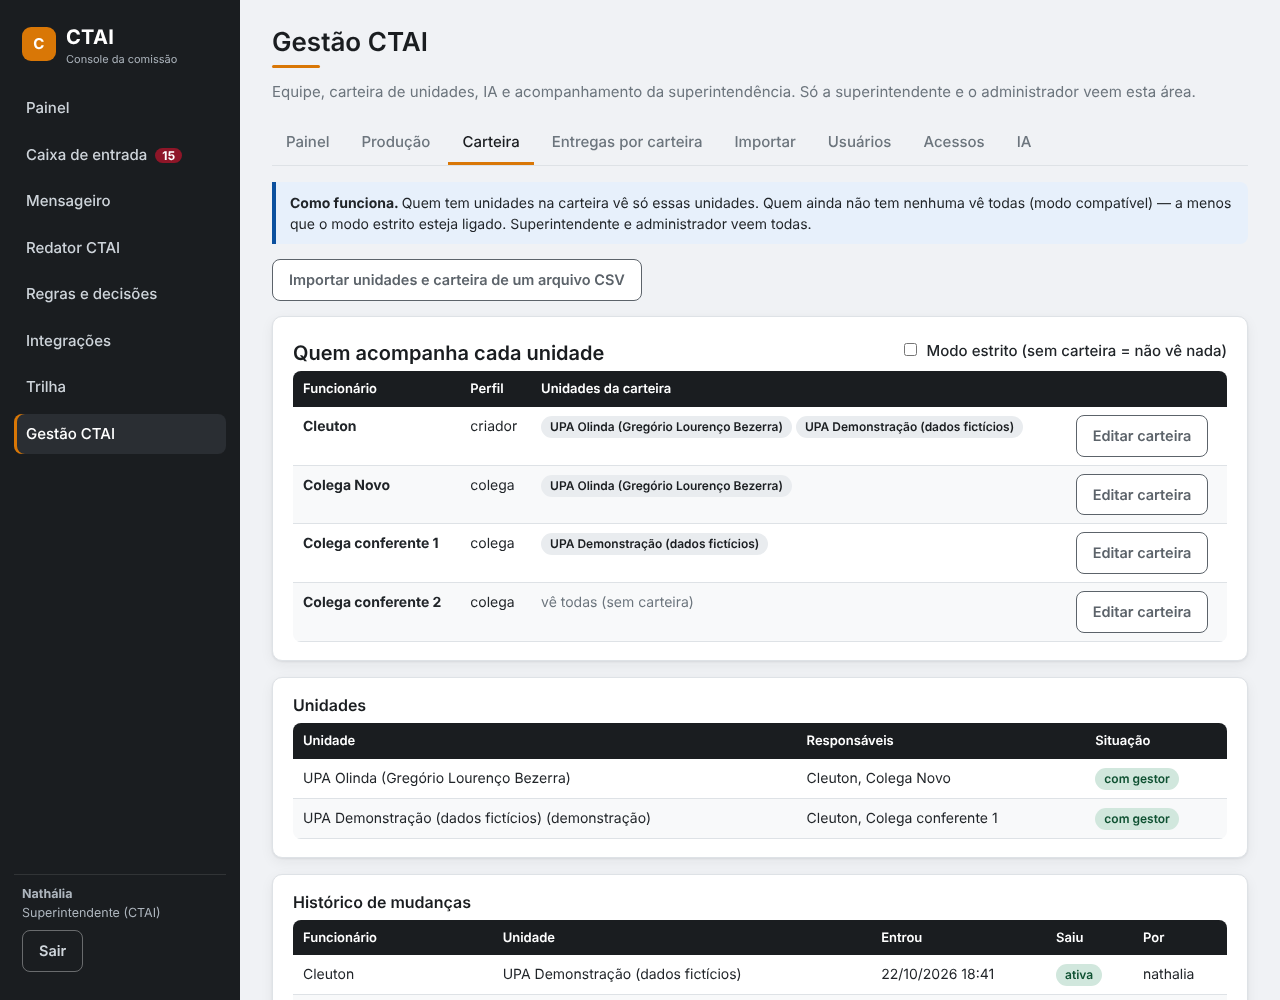
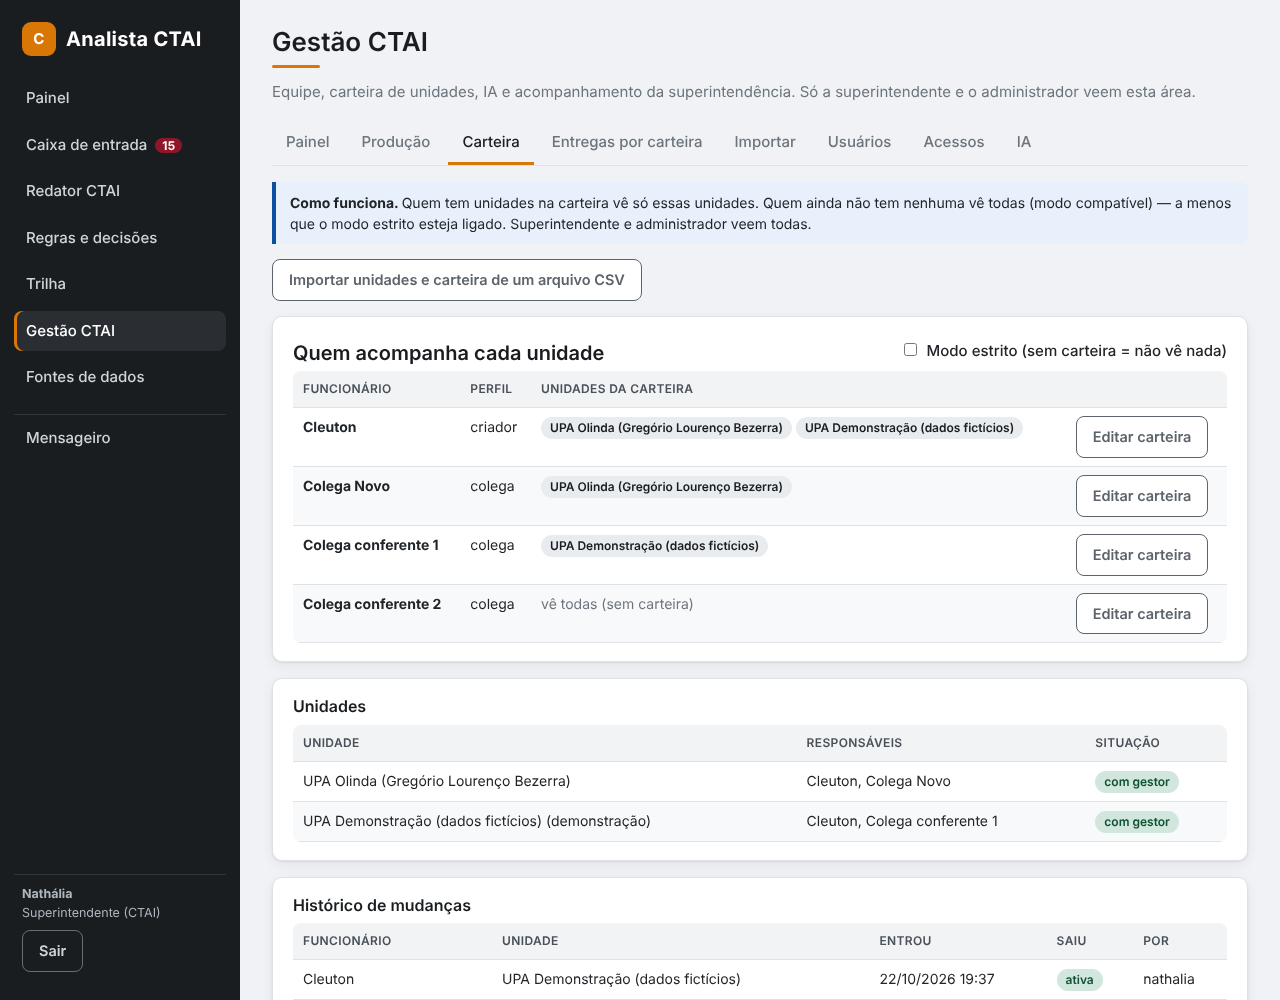
Design mais leve: cartões do Painel recolhidos por padrão, Mensageiro por último, Integrações vira Fontes de dados (só gestão), tabelas claras
Claude-Session: https://claude.ai/code/session_01TePQBrxAiH7ZoxMsBLHw5s

diff --git a/public/js/ctai.js b/public/js/ctai.js
@@ -15,11 +15,13 @@
     const r = await api('GET', '/api/ctai/contratos');
     const pareceres = await api('GET', '/api/ctai/pareceres');
     montar(h('div', { class: 'topo' }, h('div', null, h('h1', null, 'Painel da CTAI'), h('p', null, 'Envios recebidos, divergências abertas e pareceres em andamento.'))),
-      r.contratos.map((c) => h('div', { class: 'cartao' },
-        h('div', { class: 'linha espaco' }, h('h2', { style: 'margin:0' }, c.unidade, ' ', c.demo ? selo('demonstração', 'demo') : null), c.decisoesAbertas ? h('a', { href: '#/regras/' + c.contrato_id }, selo(c.decisoesAbertas + ' dúvida(s) de regra em aberto', 'atencao')) : selo('regras decididas', 'ok')),
-        h('p', { class: 'mudo peq' }, c.oss + ' · ' + (c.numero_cg || '')),
+      r.contratos.map((c) => window.CTAI.recolher('painel:' + c.contrato_id,
+        h('span', null, c.unidade, ' ', c.demo ? selo('demonstração', 'demo') : null),
+        h('span', null, c.competencias.length + ' mês(es) · ' + c.competencias.reduce((n, k) => n + (k.divergenciasAbertas || 0), 0) + ' divergência(s) aberta(s) ', c.decisoesAbertas ? selo(c.decisoesAbertas + ' dúvida(s) de regra', 'atencao') : null),
+        h('div', null,
+          h('p', { class: 'mudo peq', style: 'margin-top:0' }, c.oss + ' · ' + (c.numero_cg || ''), c.decisoesAbertas ? [' · ', h('a', { href: '#/regras/' + c.contrato_id }, 'ver dúvidas de regra')] : null),
         tabela([{ t: 'Mês' }, { t: 'Situação' }, { t: 'Envio' }, { t: 'Recebido em' }, { t: 'Prazos' }, { t: 'Divergências abertas', n: true }, { t: '' }],
-          c.competencias.map((k) => [fmt.comp(k.competencia_id) + (k.mes_implantacao ? ' (implantação)' : ''), selo(k.status, SITU[k.status] || ''), k.versaoEnvio ? h('span', null, 'v' + k.versaoEnvio, k.seiAlertas ? [' ', h('a', { href: '#/c/' + k.cid + '/envios', title: 'Alerta entre o sistema e o SEI' }, selo('SEI: ' + k.seiAlertas + ' alerta(s)', 'atencao'))] : null) : '—', fmt.data(k.recebido_em), k.prazos ? selo(k.prazos.texto, k.prazos.nivel === 'alta' ? 'alta' : (k.prazos.nivel === 'atencao' ? 'atencao' : (k.prazos.nivel === 'ok' ? 'ok' : ''))) : '—', String(k.divergenciasAbertas), h('a', { href: '#/c/' + k.cid }, 'Abrir')])))),
+          c.competencias.map((k) => [fmt.comp(k.competencia_id) + (k.mes_implantacao ? ' (implantação)' : ''), selo(k.status, SITU[k.status] || ''), k.versaoEnvio ? h('span', null, 'v' + k.versaoEnvio, k.seiAlertas ? [' ', h('a', { href: '#/c/' + k.cid + '/envios', title: 'Alerta entre o sistema e o SEI' }, selo('SEI: ' + k.seiAlertas + ' alerta(s)', 'atencao'))] : null) : '—', fmt.data(k.recebido_em), k.prazos ? selo(k.prazos.texto, k.prazos.nivel === 'alta' ? 'alta' : (k.prazos.nivel === 'atencao' ? 'atencao' : (k.prazos.nivel === 'ok' ? 'ok' : ''))) : '—', String(k.divergenciasAbertas), h('a', { href: '#/c/' + k.cid }, 'Abrir')]))))),
       h('div', { class: 'cartao' }, h('div', { class: 'linha espaco' }, h('h2', { style: 'margin:0' }, 'Pareceres'), h('a', { class: 'btn sec', href: '#/pareceres' }, 'Ver todos')),
         tabela([{ t: 'Parecer' }, { t: 'Trimestre' }, { t: 'Criado por' }, { t: 'Situação' }], pareceres.pareceres.slice(0, 5).map((p) => [h('a', { href: '#/p/' + p.parecer_id }, p.titulo), p.trimestre, p.criador_nome, selo(p.status + (p.ultimaVersao ? ' (v' + p.ultimaVersao.numero + ')' : ''), p.status === 'anexado ao SEI' || p.status === 'autorizado' ? 'ok' : 'atencao')]), { vazio: 'Nenhum parecer aberto.' })));
   }
@@ -273,8 +275,8 @@
         aviso('info', h('strong', null, 'Como começar. '), 'Abra uma unidade. Se ela não tiver regra, aplique o modelo do tipo dela (hoje existe o das UPAs) e depois confira contra o contrato e os TAs. As regras de hospitais e UPAE entram quando os contratos forem cadastrados.'),
         ehSup && semUpa ? h('div', { class: 'cartao' }, h('div', { class: 'linha espaco' }, h('div', null, h('strong', null, semUpa + ' UPA(s) sem regra'), h('p', { class: 'mudo peq', style: 'margin:2px 0 0' }, 'Aplica o modelo IGQ (baseado na UPA Olinda) a todas de uma vez. Cada uma fica marcada "modelo a conferir" até alguém conferir com o contrato.')),
           h('button', { id: 'rg-lote', onclick: async () => { if (!(await confirmar('Aplicar o modelo às UPAs', 'O modelo IGQ será aplicado a ' + semUpa + ' UPA(s) sem regra. Elas ficam marcadas "modelo a conferir".', 'Aplicar'))) return; try { const o = await api('POST', '/api/ctai/regras/modelo-lote', { tipo: 'UPA', modelo: 'igq_v1' }); toast(o.aplicadas + ' unidade(s) com o modelo aplicado.'); regras(p); } catch (e) { toast(e.message, true); } } }, 'Aplicar o modelo às UPAs sem regra'))) : null,
-        ehSup ? h('div', { class: 'cartao' }, h('h3', null, 'Importar regras dos contratos'), h('p', { class: 'mudo peq' }, 'Arquivo JSON com as regras lidas dos contratos e TAs (várias unidades de uma vez). Cada unidade é encontrada pelo nome; as que não casarem são listadas. Tudo entra como "a conferir".'),
-          h('div', { class: 'linha' }, arqLote, h('button', { class: 'sec', id: 'rg-importar-lote', onclick: importarLote }, 'Importar'))) : null,
+        ehSup ? window.CTAI.recolher('regras:importar', 'Importar regras dos contratos', 'só para a superintendência', h('div', null, h('p', { class: 'mudo peq', style: 'margin-top:0' }, 'Arquivo JSON com as regras lidas dos contratos e TAs (várias unidades de uma vez). Cada unidade é encontrada pelo nome; as que não casarem são listadas. Tudo entra como "a conferir".'),
+          h('div', { class: 'linha' }, arqLote, h('button', { class: 'sec', id: 'rg-importar-lote', onclick: importarLote }, 'Importar')))) : null,
         h('div', { class: 'cartao' }, tabela([{ t: 'Unidade' }, { t: 'Tipo' }, { t: 'Regra' }, { t: 'Decisões em aberto', n: true }, { t: '' }],
           lista.map((c) => [h('a', { href: '#/regras/' + c.contrato_id }, c.unidade), c.tipo, estadoSelo(c), String(c.decisoesAbertas || 0), h('a', { class: 'btn sec', href: '#/regras/' + c.contrato_id }, c.regra.tem ? 'Abrir' : 'Cadastrar')]), { vazio: 'Nenhuma unidade na sua carteira.' })));
     }
@@ -705,7 +707,7 @@
   async function integracoes() {
     const r = await api('GET', '/api/integracoes');
     const cs = (await api('GET', '/api/ctai/contratos')).contratos;
-    montar(h('div', { class: 'topo' }, h('div', null, h('h1', null, 'Integrações'), h('p', null, 'Rack para ligar o sistema da unidade (MV). Aguardando acesso e dicionário de campos.'))),
+    montar(h('div', { class: 'topo' }, h('div', null, h('h1', null, 'Fontes de dados'), h('p', null, 'De onde o sistema pode buscar informações além da digitação no portal. Hoje só a digitação e o arquivo CSV funcionam; as demais ficam prontas para quando houver acesso.'))),
       aviso('info', h('strong', null, 'Como funciona: '), 'o sistema busca as linhas pela API, confere cada uma (dado pessoal é recusado), e guarda como lote pendente. O gestor da unidade confirma. Só então entram no cálculo. As credenciais ficam no .env do servidor, nunca no banco.'),
       await cartaoGaocg(),
       r.tipos.map((t) => h('div', { class: 'cartao' }, h('div', { class: 'linha espaco' }, h('strong', null, t.nome), selo(t.estado, t.estado === 'ativa' ? 'ok' : 'atencao')), h('p', { class: 'mudo peq', style: 'margin:4px 0 0' }, t.descricao))),
@@ -781,12 +783,12 @@
     const me0 = await api('GET', '/api/auth/me').catch(() => null);
     const meta0 = await api('GET', '/api/meta').catch(() => null);
     window.__semPainel = !!(me0 && ['criador', 'colega'].includes(me0.usuario.perfil) && meta0 && !meta0.painelAnalista);
-    window.__soGestao = me0 && ['superintendente', 'admin'].includes(me0.usuario.perfil) ? [{ href: '#/gestao', rotulo: 'Gestão CTAI' }] : [];
-    EU = await casca({ titulo: 'Analista CTAI', subtitulo: '', perfis: ['admin', 'criador', 'colega', 'superintendente'], itens: (window.__semPainel ? [] : [{ href: '#/', rotulo: 'Painel' }]).concat([{ href: '#/caixa', rotulo: 'Caixa de entrada' }, { href: '#/mensageiro', rotulo: 'Mensageiro' }, { href: '#/pareceres', rotulo: 'Redator CTAI' }, { href: '#/regras', rotulo: 'Regras e decisões' }, { href: '#/integracoes', rotulo: 'Integrações' }, { href: '#/trilha', rotulo: 'Trilha' }]).concat(window.__soGestao || []) });
+    window.__soGestao = me0 && ['superintendente', 'admin'].includes(me0.usuario.perfil) ? [{ href: '#/gestao', rotulo: 'Gestão CTAI' }, { href: '#/integracoes', rotulo: 'Fontes de dados' }] : [];
+    EU = await casca({ titulo: 'Analista CTAI', subtitulo: '', perfis: ['admin', 'criador', 'colega', 'superintendente'], itens: (window.__semPainel ? [] : [{ href: '#/', rotulo: 'Painel' }]).concat([{ href: '#/caixa', rotulo: 'Caixa de entrada' }, { href: '#/pareceres', rotulo: 'Redator CTAI' }, { href: '#/regras', rotulo: 'Regras e decisões' }, { href: '#/trilha', rotulo: 'Trilha' }]).concat(window.__soGestao || []).concat([{ href: '#/mensageiro', rotulo: 'Mensageiro', classe: 'fim' }]) });
     if (!EU) return;
     window.__eu = EU;
     window.CTAI_CAIXA.atualizarContador(); window.CTAI_MENSAGEIRO.atualizarContador(); setInterval(() => { window.CTAI_CAIXA.atualizarContador(); window.CTAI_MENSAGEIRO.atualizarContador(); }, 60000);
-    if (ehAdmin()) { const nav = document.querySelector('.lateral .rodape'); nav.parentNode.insertBefore(h('a', { class: 'nav', href: '#/admin', 'data-h': '#/admin' }, 'Administração'), nav); }
+    if (ehAdmin()) { const nav = document.querySelector('.lateral .rodape'); nav.parentNode.insertBefore(h('a', { class: 'nav', href: '#/admin', 'data-h': '#/admin' }, 'Administração'), document.querySelector('.lateral a.nav.fim') || nav); }
     META = await api('GET', '/api/meta');
     rotear([['/', window.__semPainel ? () => { location.replace('#/caixa'); } : painel], ['/c/:cid', competencia], ['/c/:cid/:aba', competencia], ['/pareceres', pareceres], ['/p/:id', parecer], ['/v/:id', mesa], ['/analista', analista], ['/analista/:aba', analista], ['/regras', regras], ['/regras/:contrato', regras], ['/integracoes', integracoes], ['/trilha', trilha], ['/admin', admin]].concat(window.CTAI_CAIXA.rotas).concat(window.CTAI_MENSAGEIRO.rotas).concat(eh('superintendente', 'admin') ? window.CTAI_GESTAO.rotas : []), (hash) => window.__marcarMenu && window.__marcarMenu(hash));
     if ('serviceWorker' in navigator) navigator.serviceWorker.register('/sw.js').catch(() => {});

diff --git a/public/js/core.js b/public/js/core.js
@@ -89,6 +89,24 @@
   // Troca o conteúdo de um elemento aceitando listas (replaceChildren não aceita arrays).
   function troca(el, ...c) { el.replaceChildren(); add(el, c); return el; }
   function montar(...c) { const el = document.getElementById('conteudo'); el.replaceChildren(); add(el, c); el.focus && el.focus({ preventScroll: true }); }
+  // Cartões recolhíveis: no primeiro acesso (cada login) ficam todos fechados; o que a pessoa abre fica aberto até o próximo login ou até ela fechar.
+  const CH_ABERTOS = 'ctai_abertos';
+  const lerAbertos = () => { try { return JSON.parse(localStorage.getItem(CH_ABERTOS) || '[]'); } catch (_) { return []; } };
+  const gravarAbertos = (a) => { try { localStorage.setItem(CH_ABERTOS, JSON.stringify(a)); } catch (_) { /* sem armazenamento: segue funcionando */ } };
+  const esquecerAbertos = () => { try { localStorage.removeItem(CH_ABERTOS); } catch (_) { /* nada */ } };
+  function recolher(chave, cabecalho, resumo, conteudo) {
+    const corpo = h('div', { class: 'rec-corpo' }, conteudo);
+    const seta = h('span', { class: 'rec-seta', 'aria-hidden': 'true' }, '▸');
+    const btn = h('button', { type: 'button', class: 'rec-cab', 'aria-expanded': 'false' }, seta, h('span', { class: 'rec-titulo' }, cabecalho), resumo ? h('span', { class: 'rec-resumo' }, resumo) : null);
+    const caixa = h('div', { class: 'cartao rec' }, btn, corpo);
+    const pintar = (aberto) => { caixa.classList.toggle('aberto', aberto); btn.setAttribute('aria-expanded', String(aberto)); corpo.hidden = !aberto; };
+    pintar(lerAbertos().includes(chave));
+    btn.addEventListener('click', () => {
+      const abrir = !caixa.classList.contains('aberto'); pintar(abrir);
+      const a = lerAbertos().filter((x) => x !== chave); if (abrir) a.push(chave); gravarAbertos(a);
+    });
+    return caixa;
+  }
   // Quem chega por /unidade volta para a entrada da unidade, não para a da CTAI.
   const entrada = () => (location.pathname === '/unidade' ? '/?entrar=unidade' : '/');
   async function casca(opc) {
@@ -98,8 +116,8 @@
     if (opc.perfis && !opc.perfis.includes(u.perfil) && u.perfil !== 'admin') { location.href = entrada(); return null; }
     const lat = h('nav', { class: 'lateral', 'aria-label': 'Menu' },
       h('div', { class: 'marca' }, h('span', { class: 'logo', 'aria-hidden': 'true' }, 'C'), h('span', null, opc.titulo, h('small', null, opc.subtitulo))),
-      opc.itens.map((i) => h('a', { class: 'nav', href: i.href, 'data-h': i.href }, i.rotulo)),
-      h('div', { class: 'rodape' }, h('div', null, h('strong', null, u.nome)), h('div', null, u.perfilNome), h('button', { class: 'sec', onclick: async () => { await api('POST', '/api/auth/logout', {}); location.href = '/'; } }, 'Sair')));
+      opc.itens.map((i) => h('a', { class: 'nav' + (i.classe ? ' ' + i.classe : ''), href: i.href, 'data-h': i.href }, i.rotulo)),
+      h('div', { class: 'rodape' }, h('div', null, h('strong', null, u.nome)), h('div', null, u.perfilNome), h('button', { class: 'sec', onclick: async () => { await api('POST', '/api/auth/logout', {}); esquecerAbertos(); location.href = '/'; } }, 'Sair')));
     const main = h('main', { class: 'conteudo', id: 'conteudo', tabindex: '-1' });
     document.getElementById('app').replaceChildren(h('div', { class: 'casca' }, lat, main));
     window.__marcarMenu = (hash) => lat.querySelectorAll('a.nav').forEach((a) => { const alvo = a.getAttribute('data-h').replace('#', ''); const h2 = hash.replace(/^\/[pv]\//, '/pareceres/').replace(/^\/analista/, '/pareceres'); a.classList.toggle('ativo', alvo === '/' ? (hash === '/' || hash.startsWith('/c/')) : h2.startsWith(alvo)); });
@@ -116,5 +134,5 @@
       try { await api('POST', '/api/auth/trocar-senha', { atual: a.value, nova: n.value }); toast('Senha trocada.'); return; } catch (e) { msg.textContent = e.message; }
     }
   }
-  window.CTAI = { h, api, fmt, toast, janela, perguntar, confirmar, selo, seloGrav, aviso, tabela, rotear, montar, troca, casca, trocarSenha, add };
+  window.CTAI = { h, api, fmt, toast, janela, perguntar, confirmar, selo, seloGrav, aviso, tabela, rotear, montar, troca, casca, trocarSenha, add, recolher, esquecerAbertos };
 })();

diff --git a/test/e2e/run.js b/test/e2e/run.js
@@ -149,7 +149,7 @@ let base;
     await cri.selectOption('#ck-v', 'com divergências'); await cri.fill('#ck-o', 'Relatório da comissão chegou sem a ata da revisão.');
     await dialogo(cri, 'Salvar'); await cri.waitForSelector('text=decidido por cleuton', { timeout: 6000 });
     await cri.setViewportSize({ width: 1280, height: 1500 }); await cri.evaluate(() => window.scrollTo(0, 0)); await limpa(cri); await cri.screenshot({ path: path.join(CAP, '17-ctai-checklist.png' ) }); await cri.setViewportSize({ width: 1280, height: 860 });
-    await ir(cri, '#/', 'text=Painel da CTAI'); assert.match(await cri.textContent('#conteudo'), /Prazos/);
+    await ir(cri, '#/', 'text=Painel da CTAI'); assert.equal(await cri.locator('.rec.aberto').count(), 0, 'cartões do Painel começam fechados'); await cri.click('.rec-cab >> nth=0'); assert.ok(await cri.locator('.rec.aberto').count() >= 1); assert.match(await cri.textContent('#conteudo'), /Prazos/);
     log('prazos informados pela unidade e checklist de recebimento editado pela CTAI');
     for (const [k, v] of [['desconto_modo', 'faixa'], ['vermelho', 'faixa']]) await api(cri, 'PUT', '/api/ctai/contratos/DEMO-UPA/decisoes/' + k, { valor: v, justificativa: 'Teste ponta a ponta' });
     await ir(cri, '#/pareceres', '#np-c');
@@ -237,7 +237,7 @@ let base;
     await cri.waitForSelector('text=Nova versão no sistema depois do SEI');
     await limpa(cri); await cri.screenshot({ path: path.join(CAP, '8-ctai-alerta-sei.png') });
     await ir(cri, '#/c/' + cid06, 'text=Recálculo'); assert.match(await cri.textContent('#conteudo'), /Sistema × SEI/);
-    await ir(cri, '#/', 'text=SEI: 1 alerta(s)');
+    await ir(cri, '#/', 'text=Painel da CTAI'); assert.ok(await cri.locator('.rec.aberto').count() >= 1, 'o que foi aberto continua aberto'); await cri.evaluate(() => document.querySelectorAll('.rec:not(.aberto) .rec-cab').forEach((b) => b.click())); await cri.waitForSelector('text=SEI: 1 alerta(s)');
     await gest.evaluate((c) => { location.hash = '#/c/' + c; }, cid06); await gest.waitForSelector('text=Você enviou a v2 depois de registrar o SEI da v1');
     log('nova versão depois do SEI gerou o alerta na CTAI e o aviso na unidade');
 

diff --git a/public/css/app.css b/public/css/app.css
@@ -54,7 +54,7 @@ textarea{min-height:90px;resize:vertical}
 .campo .un{color:var(--cinza);font-size:13px}
 .duas{display:grid;grid-template-columns:1fr 1fr;gap:0 18px}
 table{border-collapse:collapse;width:100%;font-size:14px}
-th{background:var(--escuro);color:#fff;text-align:left;padding:8px 10px;font-weight:600;font-size:13px;white-space:nowrap}
+th{background:#f1f3f5;color:#495057;text-align:left;padding:9px 10px;font-weight:600;font-size:12px;letter-spacing:.03em;text-transform:uppercase;white-space:nowrap;border-bottom:1px solid var(--borda)}
 td{padding:8px 10px;border-bottom:1px solid var(--borda);vertical-align:top}
 tr:nth-child(even) td{background:#f8f9fa}
 td.n,th.n{text-align:right;font-variant-numeric:tabular-nums}
@@ -166,3 +166,16 @@ label.interruptor{display:inline-block;margin:0;padding:4px 0}
 button:not(.sec):not(.leve):hover,.btn:not(.sec):hover{background:var(--acento-h)}
 .topo h1::after{content:"";display:block;width:48px;height:3px;background:var(--ambar);margin-top:8px;border-radius:2px}
 .msg-erro,.campo.erro .msg-erro{color:var(--erro)}
+
+/* Cartões recolhíveis (Painel, Regras...) */
+.cartao.rec{padding:0;overflow:hidden}
+.rec-cab{all:unset;box-sizing:border-box;display:flex;align-items:center;gap:12px;width:100%;padding:14px 18px;cursor:pointer;font-weight:600;color:var(--texto)}
+.rec-cab:hover{background:#f8f9fa}
+.rec-cab:focus-visible{outline:2px solid var(--ambar);outline-offset:-2px}
+.rec-seta{color:var(--cinza);transition:transform .15s;display:inline-block;width:12px}
+.cartao.rec.aberto .rec-seta{transform:rotate(90deg)}
+.rec-titulo{flex:0 1 auto}
+.rec-resumo{margin-left:auto;font-weight:400;font-size:13px;color:var(--cinza);text-align:right}
+.rec-corpo{padding:4px 18px 18px;border-top:1px solid #e9ecef}
+.lateral a.nav.fim{margin-top:10px;border-top:1px solid rgba(255,255,255,.1);border-radius:0 0 8px 8px;padding-top:12px}
+@media (max-width:760px){.rec-cab{flex-wrap:wrap}.rec-resumo{margin-left:24px;text-align:left;flex-basis:100%}.lateral a.nav.fim{border-top:0;margin-top:0}}

diff --git a/public/js/unidade.js b/public/js/unidade.js
@@ -379,7 +379,7 @@
   async function iniciar() {
     const me0 = await api('GET', '/api/auth/me').catch(() => null);
     const extra = me0 && me0.usuario.perfil === 'gestor_unidade' ? [{ href: '#/equipe', rotulo: 'Equipe da unidade' }] : [];
-    EU = await casca({ titulo: 'CTAI', subtitulo: 'Portal da Unidade', perfis: ['gestor_unidade', 'setor_unidade'], itens: [{ href: '#/', rotulo: 'Meses' }, { href: '#/esclarecimentos', rotulo: 'Esclarecimentos' }, { href: '#/regras', rotulo: 'Regras de pontuação' }, { href: '#/integracao', rotulo: 'Integração' }].concat(extra) });
+    EU = await casca({ titulo: 'CTAI', subtitulo: 'Portal da Unidade', perfis: ['gestor_unidade', 'setor_unidade'], itens: [{ href: '#/', rotulo: 'Meses' }, { href: '#/esclarecimentos', rotulo: 'Esclarecimentos' }, { href: '#/regras', rotulo: 'Regras de pontuação' }].concat(extra) });
     if (!EU) return;
     try { const m = await api('GET', '/api/meta'); Object.entries(m.fontes).forEach(([k, v]) => { NOMES_FONTES[k] = v.nome; }); } catch (_) { /* segue */ }
     rotear([['/', inicio], ['/c/:cid', competencia], ['/c/:cid/enviar', enviar], ['/c/:cid/envios', envios], ['/c/:cid/ficha/:setor', ficha], ['/c/:cid/lista/:fonte', lista], ['/esclarecimentos', esclarecimentos], ['/regras', regras], ['/integracao', integracao]].concat(me0 && me0.usuario.perfil === 'gestor_unidade' ? [['/equipe', equipe]] : []), (hash) => window.__marcarMenu && window.__marcarMenu(hash));

diff --git a/public/sw.js b/public/sw.js
@@ -1,5 +1,5 @@
 /* Service worker: guarda só os arquivos estáticos (telas, fontes, estilos). Nenhuma resposta da API é guardada. */
-const VERSAO = 'ctai-v24';
+const VERSAO = 'ctai-v25';
 const ESTATICOS = ['/', '/unidade', '/ctai', '/css/app.css', '/js/core.js', '/js/login.js', '/js/unidade.js', '/js/ctai.js', '/js/usuario-form.js', '/js/rack-ia.js', '/js/gestao.js', '/js/caixa.js', '/js/mensageiro.js', '/icons/icon.svg'];
 self.addEventListener('install', (e) => { e.waitUntil(caches.open(VERSAO).then((c) => c.addAll(ESTATICOS).catch(() => {})).then(() => self.skipWaiting())); });
 self.addEventListener('activate', (e) => { e.waitUntil(caches.keys().then((ks) => Promise.all(ks.filter((k) => k !== VERSAO).map((k) => caches.delete(k)))).then(() => self.clients.claim())); });

diff --git a/public/js/login.js b/public/js/login.js
@@ -25,6 +25,7 @@
     const erro = document.getElementById('erro'); erro.textContent = '';
     try {
       const r = await api('POST', '/api/auth/login', { login: document.getElementById('login').value, senha: document.getElementById('senha').value });
+      try { localStorage.removeItem('ctai_abertos'); } catch (_) { /* nada */ }
       if (naUnidade && !ehUnidade(r.usuario.perfil) && r.usuario.perfil !== 'admin') { aviso('Este usuário é da equipe da CTAI. Esta é a entrada das unidades.'); return; }
       location.href = naUnidade && r.usuario.perfil === 'admin' ? '/unidade' : (r.usuario.perfil === 'admin' ? '/ctai' : destino(r.usuario.perfil));
     } catch (err) { erro.textContent = err.message; }
